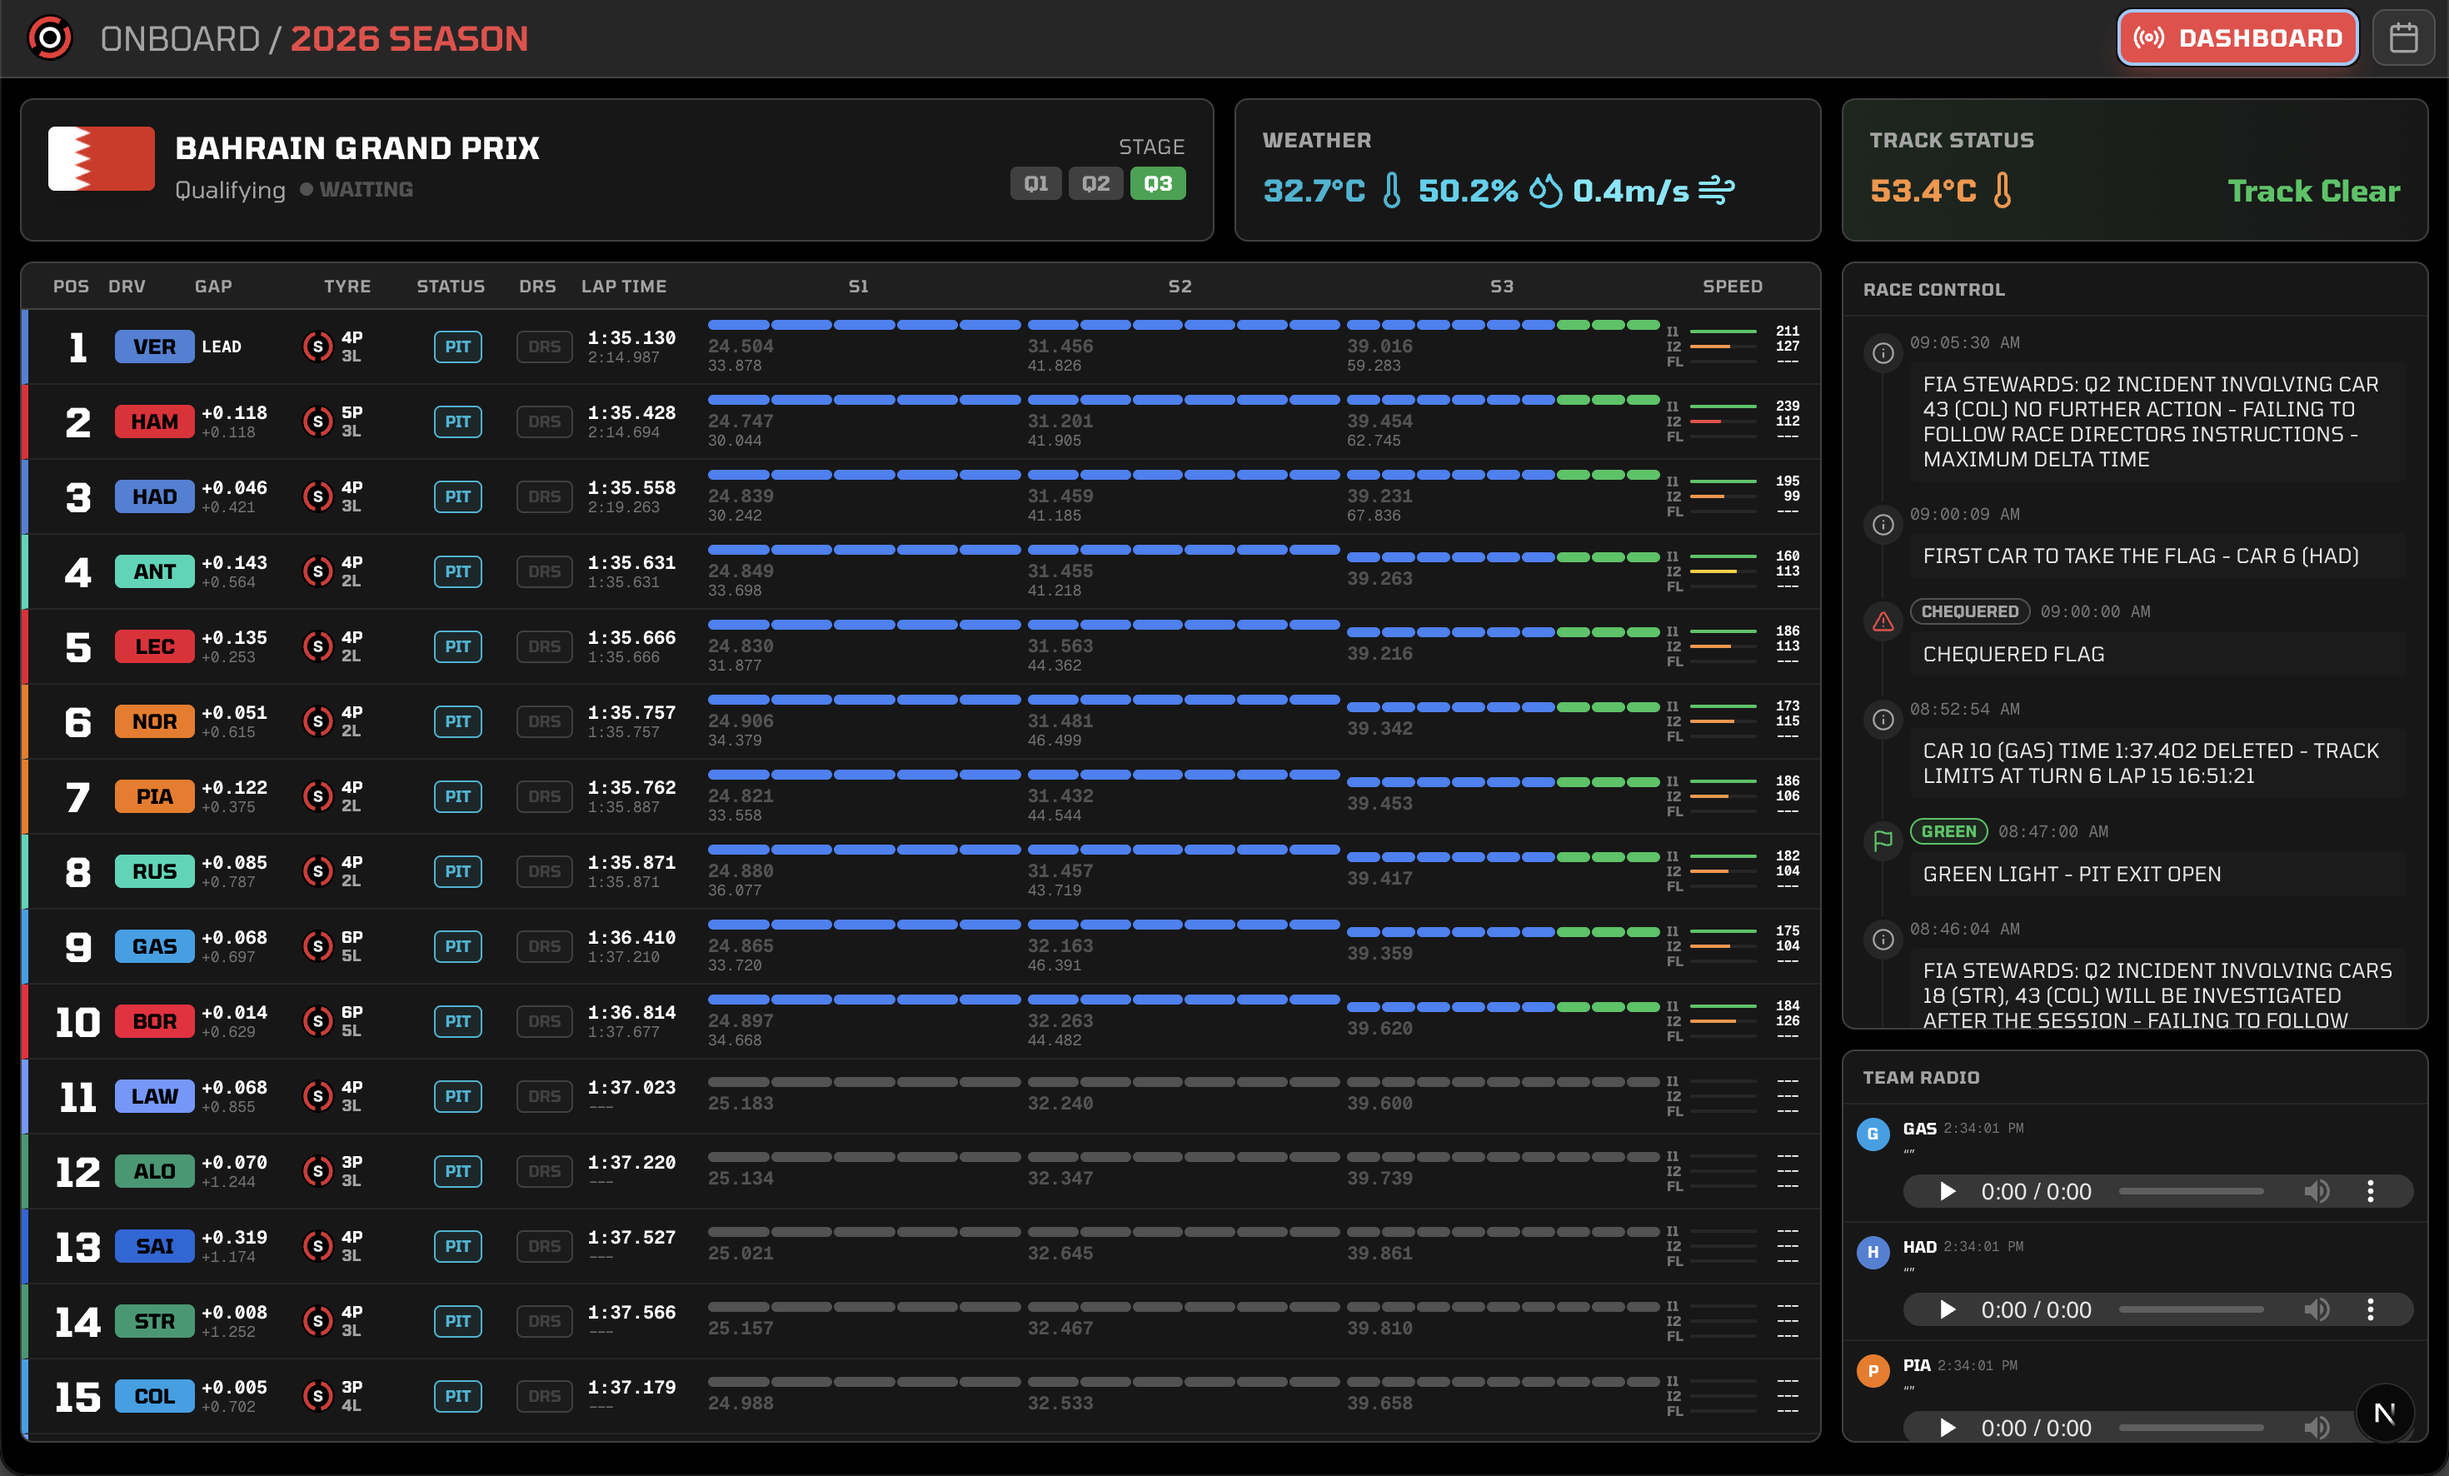
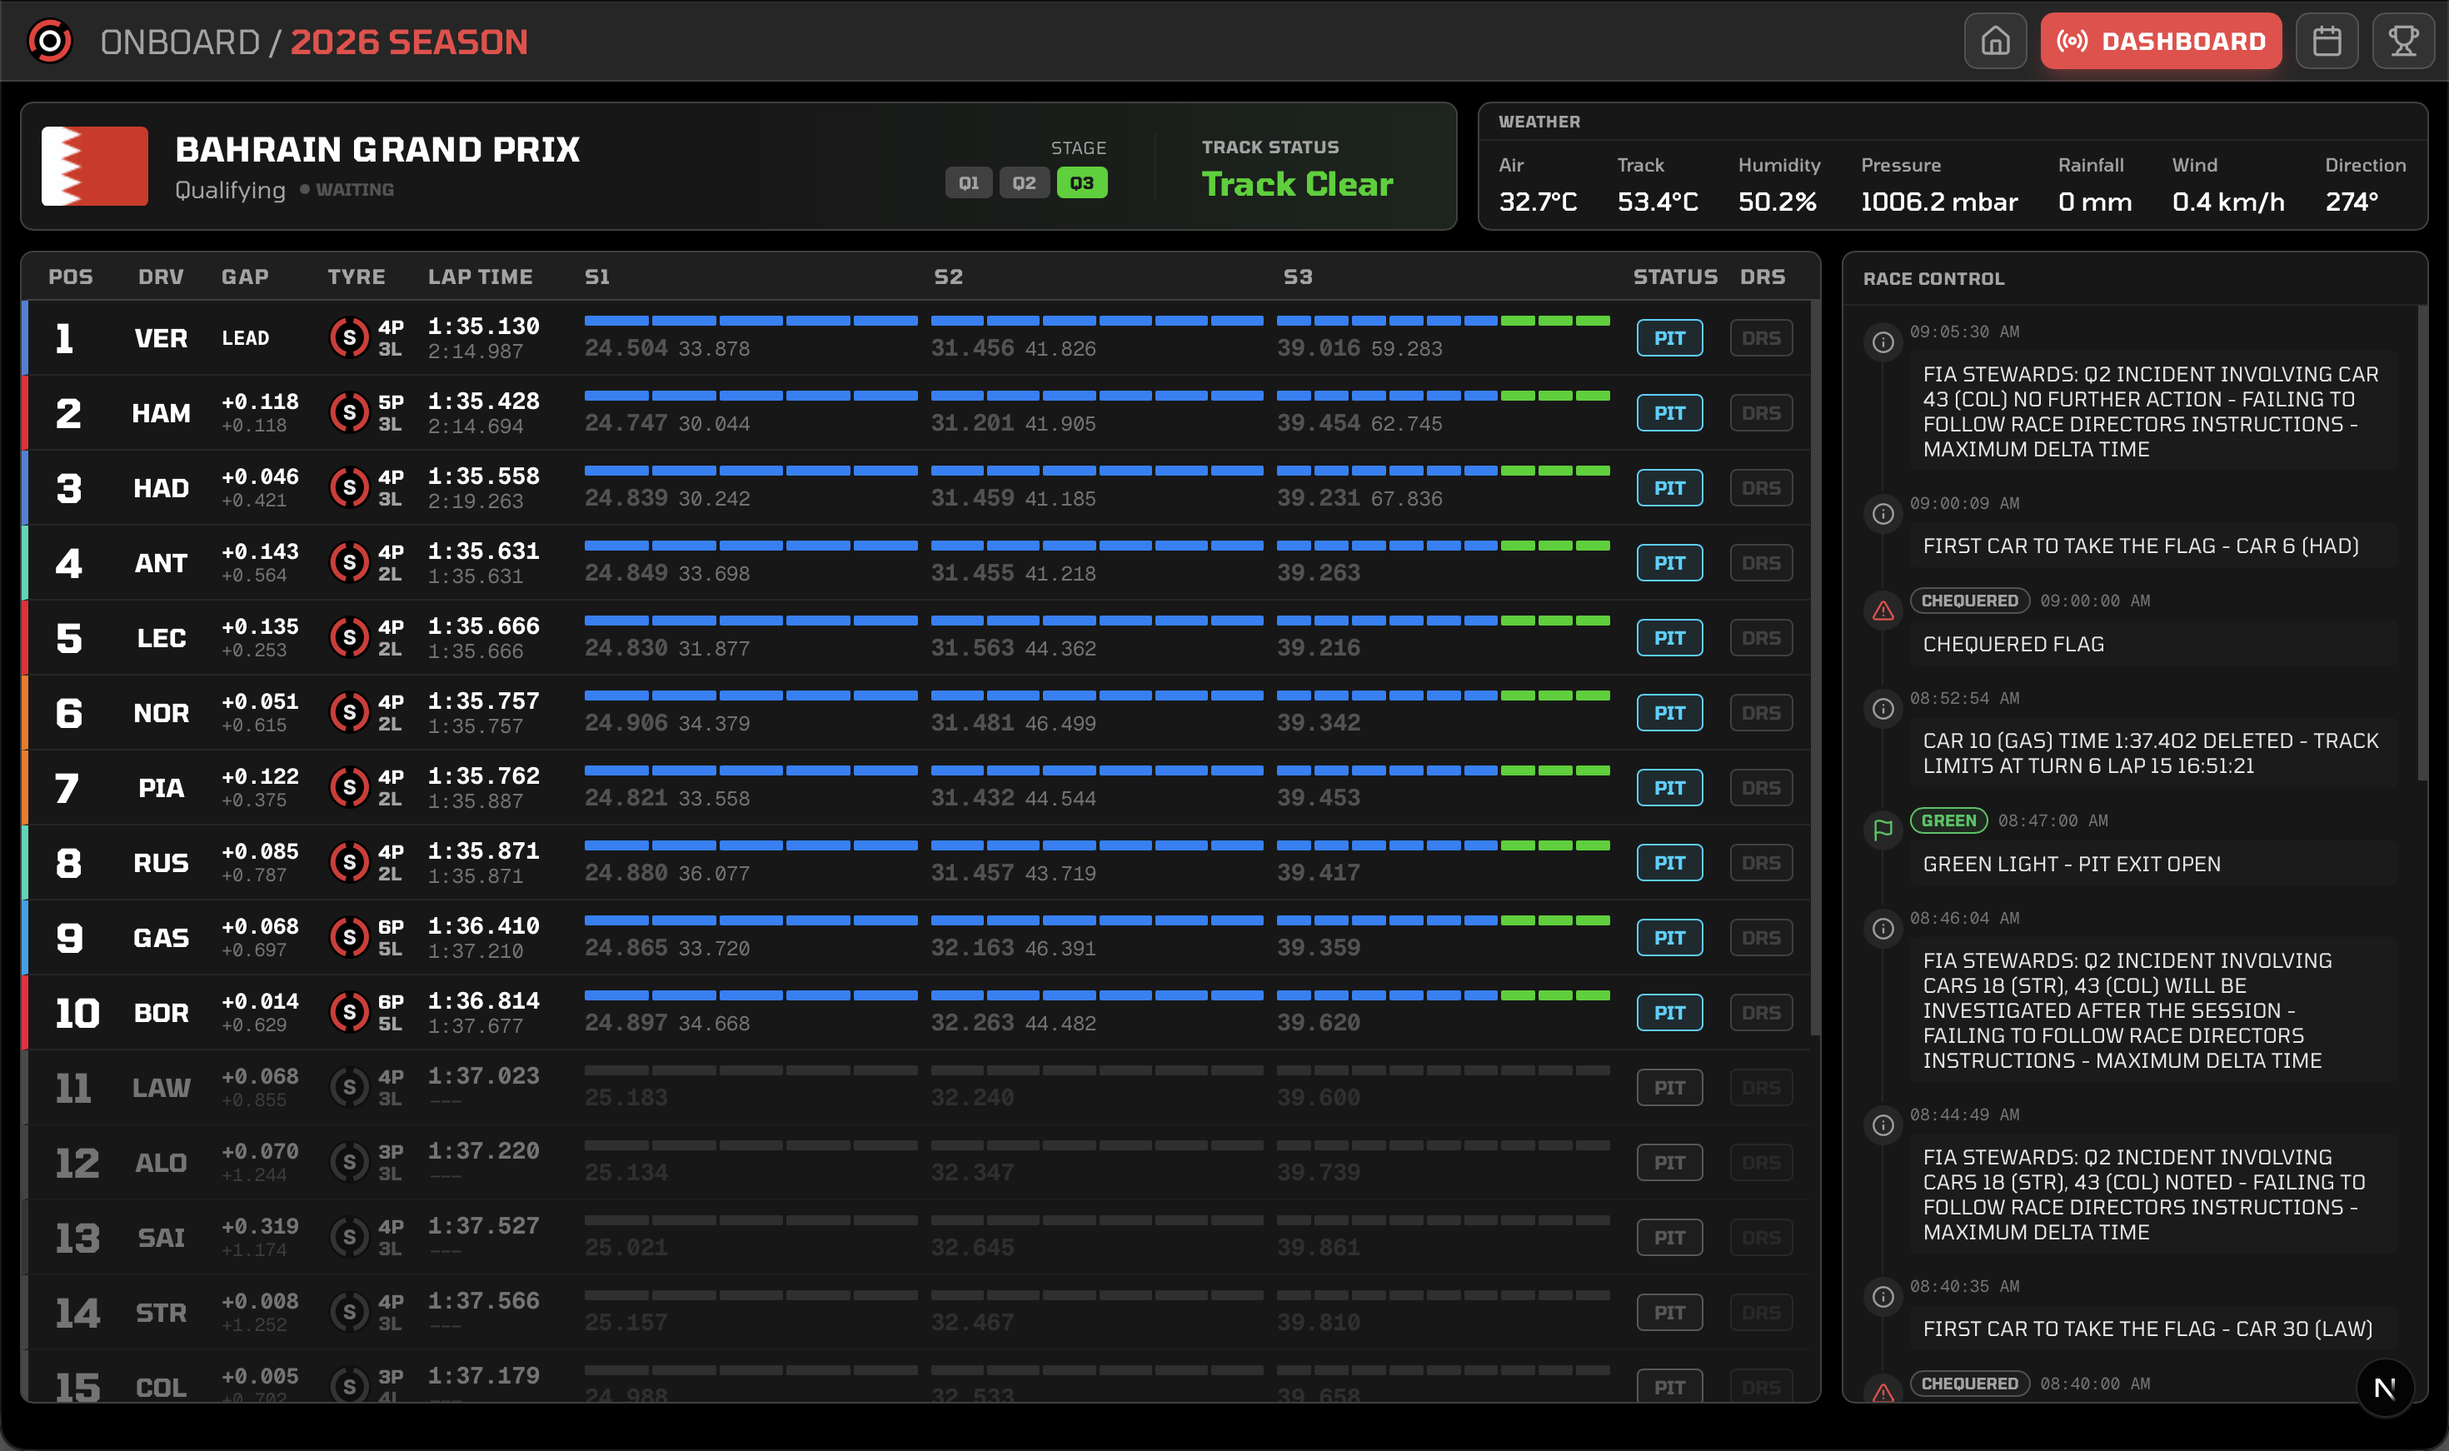
readme update

diff --git a/README.md b/README.md
@@ -5,11 +5,14 @@
 ### Features
 
 - **Live Telemetry:** Streams live lap times, sectors, and track status instantly using Server-Sent Events (SSE).
+- **Championship Standings:** Dynamic 60/40 dashboard featuring driver and constructor standings with interactive typographic details and official F1 team colors.
 - **Dynamic Calendar:** Automatically fetches the 2026 Racing Calendar using the OpenF1 API, complete with track maps and session timings automatically converted to your local timezone.
-- **Unified Design Language:** Built with a dark-mode frosted-glass aesthetic and high-performance components.
-- **Polyglot Monorepo:** Structured as an industry-standard monorepo with a Next.js (TypeScript) frontend communicating with a FastAPI (Python) backend.
+- **Unified Design Language:** Built with a dark-mode frosted-glass aesthetic, official F1 typography, and high-performance components.
+- **Polyglot Monorepo:** Structured as an industry-standard monorepo with a Next.js (TypeScript) frontend communicating with a FastAPI (Python) backend orchestrator.
 
 ## Previews
+
+![Home Dashboard](docs/assets/home.png)
 
 ### Live Race Dashboard
 Watch the telemetry roll in live. The dashboard displays lap counts, individual sector times, and real-time tire strategies.
@@ -21,3 +24,7 @@ Keep track of upcoming sessions with a beautiful, automatically updating schedul
 
 ![Race Schedule](docs/assets/schedule.png)
 
+### Championship Standings
+A beautifully crafted 60/40 interactive dashboard to explore the current Driver and Constructor championship standings.
+
+![Championship Standings](docs/assets/standings.png)
